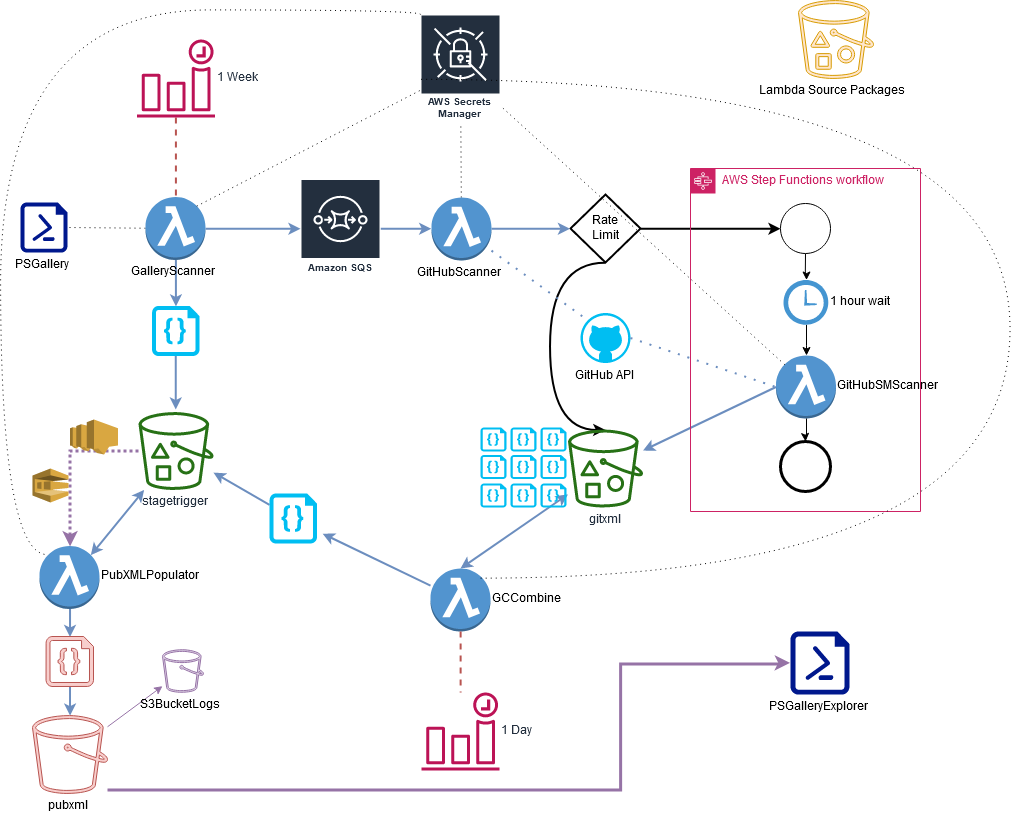
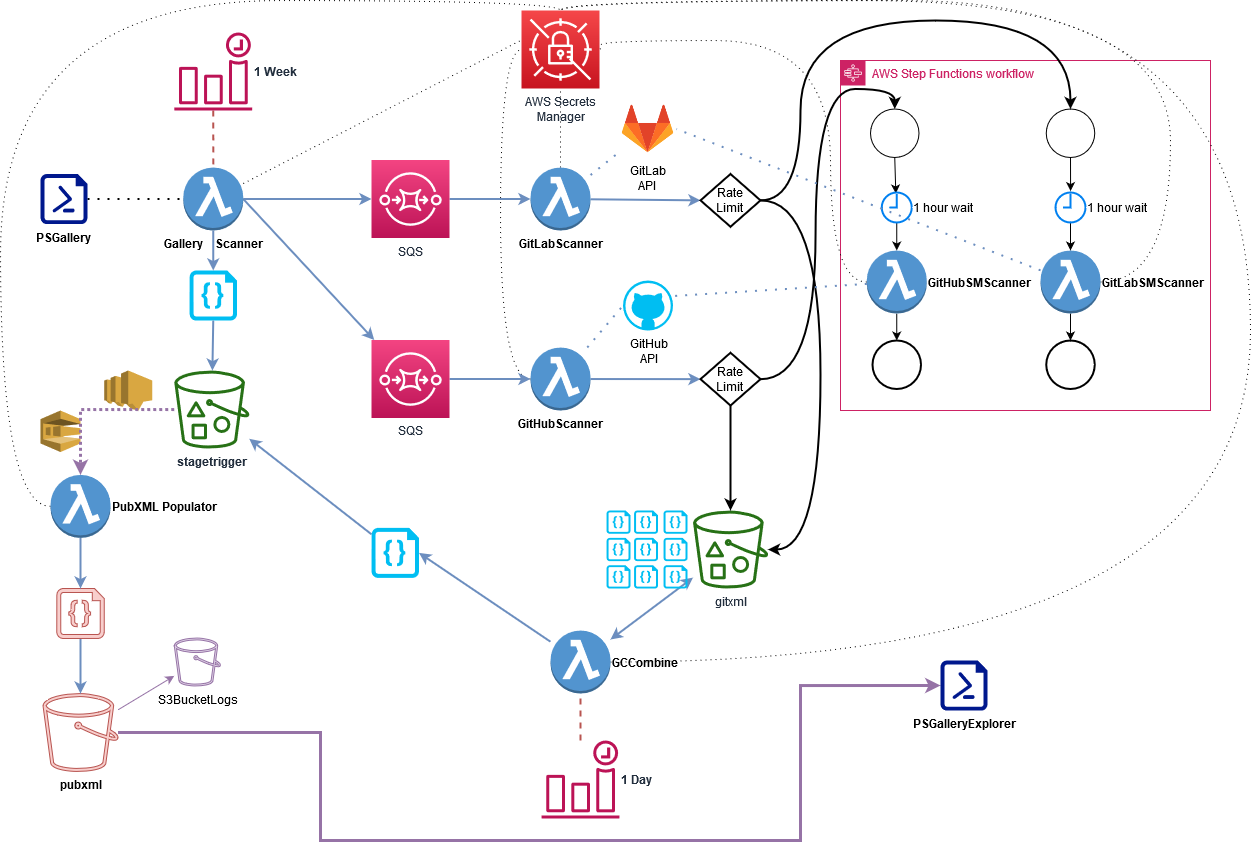
updated documentation

diff --git a/docs/PowerShell_Serverless.md b/docs/PowerShell_Serverless.md
@@ -2,18 +2,18 @@
 
 ## Synopsis
 
-PSGalleryExplorer includes a modules corresponding GitHub project information when returning module results.
+PSGalleryExplorer includes a module's corresponding project repository information when returning module results.
 
-A fully PowerShell serverless solution is deployed to continually collect and update GitHub information for PSGalleryExplorer's use.
+A fully PowerShell serverless solution is deployed to continually collect and update repository information for PSGalleryExplorer's use.
 
 ## Deployment Stack
 
-* [Cloudformation for Serverless deployment](../CloudFormation/PSGE.yml)
-* [PowerShell Lambdas used](../PSLambda/)
+* [Cloudformation for Serverless deployment](../CloudFormation/PSGalleryExplorer/)
+* [PowerShell Lambdas used](../lambdafunctions/)
 
 ## Serverless Design Diagram
 
-![PSGalleryExplorer Serverless GitHub scrape](../media/Serverless_PowerShell_DataPull.png "PSGalleryExplorer Serverless PowerShell Module GitHub project scrape")
+![PSGalleryExplorer Serverless GitHub scrape](../media/serverless_powerShell_dataPull.png "PSGalleryExplorer Serverless PowerShell Module GitHub project scrape")
 
 ## Outline
 
@@ -21,11 +21,17 @@ A fully PowerShell serverless solution is deployed to continually collect and up
     * Retrieves all module information from [PowerShell Gallery](https://www.powershellgallery.com/)
       * Saves module info to **stagetrigger** in XML format using [Convert](https://github.com/austoonz/Convert)
     * For each module found an [SQS](https://aws.amazon.com/sqs/) message is sent containing relevant module information.
-1. **GitHubScanner** [lambda](https://aws.amazon.com/lambda/) picks up [SQS](https://aws.amazon.com/sqs/) messages in batches of 10.
-    * Retrieves the Github Oauth token from [AWS Secrets Manager](https://aws.amazon.com/secrets-manager/).
-    * Queries [GitHub API](https://developer.github.com/v3/) for module project information.
-      * If GitHub API rate limit is exceeded - triggers [step function](https://aws.amazon.com/step-functions/) to delay hitting API by 1 hour.
-    * Saves GitHub information in XML format using [Convert](https://github.com/austoonz/Convert) to **gitxml**.
+1. Repository Lambda scanners pick up [SQS](https://aws.amazon.com/sqs/) messages in batches of 10.
+    * **GitHubScanner**
+      * Retrieves the Github Oauth token from [AWS Secrets Manager](https://aws.amazon.com/secrets-manager/).
+      * Queries [GitHub API](https://developer.github.com/v3/) for module project information.
+        * If GitHub API rate limit is exceeded - triggers [step function](https://aws.amazon.com/step-functions/) to delay hitting API by 1 hour.
+      * Saves GitHub information in XML format using [Convert](https://github.com/austoonz/Convert) to **gitxml**.
+    * **GitLabScanner**
+      * Retrieves the GitLab token from [AWS Secrets Manager](https://aws.amazon.com/secrets-manager/).
+      * Queries [GitLab API](https://docs.gitlab.com/ee/api/README.html) for module project information.
+        * If GitLab API rate limit is exceeded - triggers [step function](https://aws.amazon.com/step-functions/) to delay hitting API by 1 hour.
+      * Saves GitLab information in XML format using [Convert](https://github.com/austoonz/Convert) to **gitxml**.
 1. [Cloud Watch Event](https://docs.aws.amazon.com/AmazonCloudWatch/latest/events/WhatIsCloudWatchEvents.html) triggers **GCCombine** [lambda](https://aws.amazon.com/lambda/) once per day.
     * Downloads all xml files from **gitxml** and merges into memory.
     * Diffs the combined data set with consolidated file in **stagetrigger**.

diff --git a/README.md b/README.md
@@ -25,7 +25,9 @@ PSGalleryExplorer is a PowerShell module that lets you search, explore, and disc
 
 ## Description
 
-PSGalleryExplorer provides functionality to search for PowerShell modules on the PowerShell Gallery and their associated repository projects.
+PSGalleryExplorer extends PowerShell Gallery Module search functionality by including information about a module's associated repository.
+
+There are a variety of search options that aim to search and explore the available modules on the PowerShell Gallery.
 
 To aid in module discovery more common/popular modules and modules made by corporations are excluded by default. Popular modules and corporation modules can be included in results by specifying the necessary parameter switches.
 
@@ -71,6 +73,9 @@ Find-PSGModule -ByDownloads -IncludeCorps -IncludeRegulars -NumberToReturn 50
 #------------------------------------------------------------------------------------------------
 # discover PowerShell modules by # of repo project stars
 Find-PSGModule -ByRepoInfo StarCount
+#------------------------------------------------------------------------------------------------
+# discover PowerShell modules that could possibly use some help
+Find-PSGModule -ByRepoInfo Issues
 #------------------------------------------------------------------------------------------------
 # discover PowerShell modules by # of repo project subscribers
 Find-PSGModule -ByRepoInfo Subscribers
